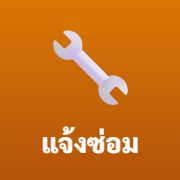
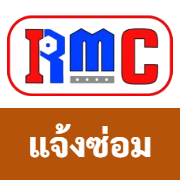
แจ้งซ่อม: ไอคอนแอปมีโลโก้ RMC (แบบเดียวกับแอป QC) + แถบส้ม แจ้งซ่อม

diff --git a/repair.html b/repair.html
@@ -7,7 +7,7 @@
 <script>
 // iOS เก็บหน้าเว็บไว้ใน cache พอขึ้นโค้ดใหม่เครื่องเดิมจะยังเปิดของเก่า
 // จึงโหลดแค่ 2KB แรกของไฟล์ตัวเองมาเทียบเลขเวอร์ชัน ถ้าไม่ตรงก็โหลดใหม่ให้เอง
-var APP_VERSION='2026-10-09d';
+var APP_VERSION='2026-10-09e';
 (function(){
   var check=function(){
     fetch(location.pathname+'?_ck='+Date.now(),{cache:'no-store',headers:{Range:'bytes=0-2047'}})
@@ -27,8 +27,8 @@ var APP_VERSION='2026-10-09d';
 <meta name="apple-mobile-web-app-title" content="แจ้งซ่อม"/>
 <meta name="apple-mobile-web-app-status-bar-style" content="black-translucent"/>
 <meta name="mobile-web-app-capable" content="yes"/>
-<link rel="apple-touch-icon" href="icons/repair-icon-180.png"/>
-<link rel="icon" type="image/png" href="icons/repair-icon-192.png"/>
+<link rel="apple-touch-icon" href="icons/repair-icon-180.png?v=2"/>
+<link rel="icon" type="image/png" href="icons/repair-icon-192.png?v=2"/>
 <meta name="theme-color" content="#b45309"/>
 <script>
 // service worker แบบส่งผ่าน (ไม่แคช) — ให้ Chrome บนมือถือขึ้นปุ่ม "ติดตั้งแอป"
